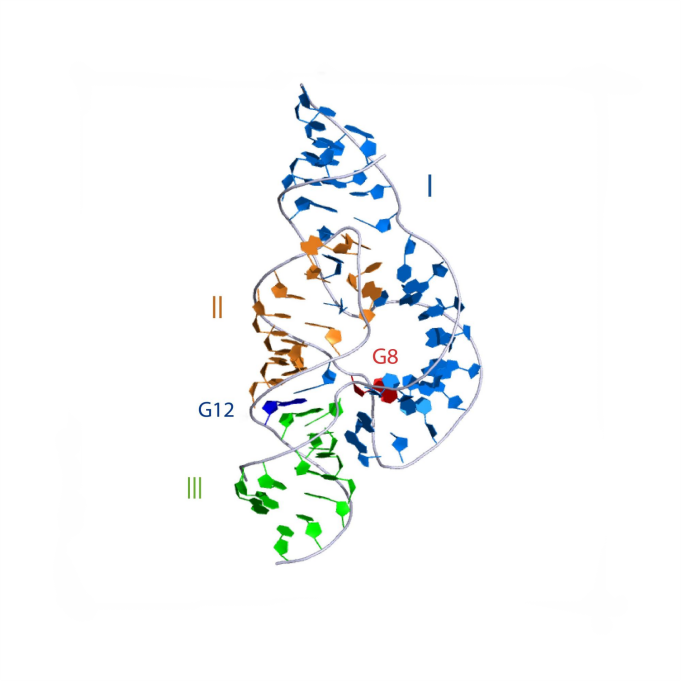
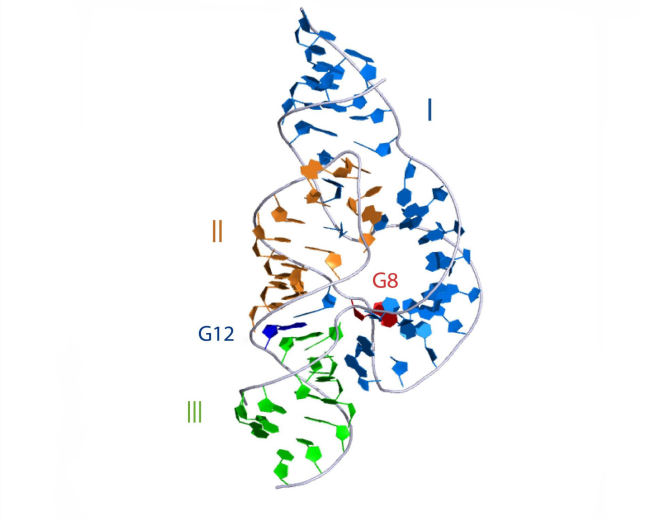
0629V4

diff --git a/docs/glms.html b/docs/glms.html
@@ -58,12 +58,12 @@
 	  <ul class="nav navbar-nav navbar-right">
 		<li id="now"><a href="https://www.ribocentre.org/">Home</a></li>
 		<li id="now"><a href="https://www.ribocentre.org/ribozyme">Ribozyme</a></li>
-		<li id="now"><a href="https://www.ribocentre.org/function">Function</a></li>
-		<li id="now"><a href="https://www.ribocentre.org/catalytic">Catalytic</a></li>
+		<li id="now"><a href="https://www.ribocentre.org/application">Application</a></li>
+		<li id="now"><a href="https://www.ribocentre.org/catalysis">Catalysis</a></li>
 		<li id="now"><a href="https://www.ribocentre.org/structure">Structure</a></li>
 		<li id="now"><a href="https://www.ribocentre.org/publications">Publications</a></li>
 		<li id="now"><a href="https://www.ribocentre.org/team">Team</a></li>
-		<li id="now"><a href="https://www.ribocentre.org/resources">Resources</a></li>
+		<li id="now"><a href="https://www.ribocentre.org/Helps">Helps</a></li>
 	  </ul>
 	</div>
   </div>
@@ -476,7 +476,7 @@
 <font size="4">The structure of the glmS ribozyme bound to glucose-6-phosphate. This representation was generated from PDB ID: 2HO7 at 2.9 Å resolution. </font>
 
 <table><tr>
-<td><img src="https://www.ribocentre.org/images/glmsPic/glms3D.png" alt="drawing" style="weight:600px;height:400px" border="0" /></td>
+<td><img src="https://www.ribocentre.org/images/glmsPic/glms3D.png" alt="drawing" style="weight:600px;height:425px" border="0" /></td>
 <td>
 <html>
   <head>
@@ -514,7 +514,7 @@
       }
       #myViewer{
         width:450px;
-        height: 450px;
+        height: 460px;
         position:relative;  
       }
       

diff --git a/docs/twister.html b/docs/twister.html
@@ -58,12 +58,12 @@
 	  <ul class="nav navbar-nav navbar-right">
 		<li id="now"><a href="https://www.ribocentre.org/">Home</a></li>
 		<li id="now"><a href="https://www.ribocentre.org/ribozyme">Ribozyme</a></li>
-		<li id="now"><a href="https://www.ribocentre.org/function">Function</a></li>
-		<li id="now"><a href="https://www.ribocentre.org/catalytic">Catalytic</a></li>
+		<li id="now"><a href="https://www.ribocentre.org/application">Application</a></li>
+		<li id="now"><a href="https://www.ribocentre.org/catalysis">Catalysis</a></li>
 		<li id="now"><a href="https://www.ribocentre.org/structure">Structure</a></li>
 		<li id="now"><a href="https://www.ribocentre.org/publications">Publications</a></li>
 		<li id="now"><a href="https://www.ribocentre.org/team">Team</a></li>
-		<li id="now"><a href="https://www.ribocentre.org/resources">Resources</a></li>
+		<li id="now"><a href="https://www.ribocentre.org/Helps">Helps</a></li>
 	  </ul>
 	</div>
   </div>
@@ -409,7 +409,7 @@
   <p>3D visualisation</p>
 </blockquote>
 <table><tr>
-<td><img src="https://www.ribocentre.org/images/twisterPic/twister3D.png" alt="drawing" style="height:430px" border="0" /></td>
+<td><img src="https://www.ribocentre.org/images/twisterPic/twister3D.png" alt="drawing" style="height:435px" border="0" /></td>
 <td>
 <html>
   <head>

diff --git a/docs/COTC.html b/docs/COTC.html
@@ -58,12 +58,12 @@
 	  <ul class="nav navbar-nav navbar-right">
 		<li id="now"><a href="https://www.ribocentre.org/">Home</a></li>
 		<li id="now"><a href="https://www.ribocentre.org/ribozyme">Ribozyme</a></li>
-		<li id="now"><a href="https://www.ribocentre.org/function">Function</a></li>
-		<li id="now"><a href="https://www.ribocentre.org/catalytic">Catalytic</a></li>
+		<li id="now"><a href="https://www.ribocentre.org/application">Application</a></li>
+		<li id="now"><a href="https://www.ribocentre.org/catalysis">Catalysis</a></li>
 		<li id="now"><a href="https://www.ribocentre.org/structure">Structure</a></li>
 		<li id="now"><a href="https://www.ribocentre.org/publications">Publications</a></li>
 		<li id="now"><a href="https://www.ribocentre.org/team">Team</a></li>
-		<li id="now"><a href="https://www.ribocentre.org/resources">Resources</a></li>
+		<li id="now"><a href="https://www.ribocentre.org/Helps">Helps</a></li>
 	  </ul>
 	</div>
   </div>

diff --git a/docs/HDV-like.html b/docs/HDV-like.html
@@ -58,12 +58,12 @@
 	  <ul class="nav navbar-nav navbar-right">
 		<li id="now"><a href="https://www.ribocentre.org/">Home</a></li>
 		<li id="now"><a href="https://www.ribocentre.org/ribozyme">Ribozyme</a></li>
-		<li id="now"><a href="https://www.ribocentre.org/function">Function</a></li>
-		<li id="now"><a href="https://www.ribocentre.org/catalytic">Catalytic</a></li>
+		<li id="now"><a href="https://www.ribocentre.org/application">Application</a></li>
+		<li id="now"><a href="https://www.ribocentre.org/catalysis">Catalysis</a></li>
 		<li id="now"><a href="https://www.ribocentre.org/structure">Structure</a></li>
 		<li id="now"><a href="https://www.ribocentre.org/publications">Publications</a></li>
 		<li id="now"><a href="https://www.ribocentre.org/team">Team</a></li>
-		<li id="now"><a href="https://www.ribocentre.org/resources">Resources</a></li>
+		<li id="now"><a href="https://www.ribocentre.org/Helps">Helps</a></li>
 	  </ul>
 	</div>
   </div>

diff --git a/docs/Hairpin.html b/docs/Hairpin.html
@@ -58,12 +58,12 @@
 	  <ul class="nav navbar-nav navbar-right">
 		<li id="now"><a href="https://www.ribocentre.org/">Home</a></li>
 		<li id="now"><a href="https://www.ribocentre.org/ribozyme">Ribozyme</a></li>
-		<li id="now"><a href="https://www.ribocentre.org/function">Function</a></li>
-		<li id="now"><a href="https://www.ribocentre.org/catalytic">Catalytic</a></li>
+		<li id="now"><a href="https://www.ribocentre.org/application">Application</a></li>
+		<li id="now"><a href="https://www.ribocentre.org/catalysis">Catalysis</a></li>
 		<li id="now"><a href="https://www.ribocentre.org/structure">Structure</a></li>
 		<li id="now"><a href="https://www.ribocentre.org/publications">Publications</a></li>
 		<li id="now"><a href="https://www.ribocentre.org/team">Team</a></li>
-		<li id="now"><a href="https://www.ribocentre.org/resources">Resources</a></li>
+		<li id="now"><a href="https://www.ribocentre.org/Helps">Helps</a></li>
 	  </ul>
 	</div>
   </div>

diff --git a/docs/Hatchet.html b/docs/Hatchet.html
@@ -58,12 +58,12 @@
 	  <ul class="nav navbar-nav navbar-right">
 		<li id="now"><a href="https://www.ribocentre.org/">Home</a></li>
 		<li id="now"><a href="https://www.ribocentre.org/ribozyme">Ribozyme</a></li>
-		<li id="now"><a href="https://www.ribocentre.org/function">Function</a></li>
-		<li id="now"><a href="https://www.ribocentre.org/catalytic">Catalytic</a></li>
+		<li id="now"><a href="https://www.ribocentre.org/application">Application</a></li>
+		<li id="now"><a href="https://www.ribocentre.org/catalysis">Catalysis</a></li>
 		<li id="now"><a href="https://www.ribocentre.org/structure">Structure</a></li>
 		<li id="now"><a href="https://www.ribocentre.org/publications">Publications</a></li>
 		<li id="now"><a href="https://www.ribocentre.org/team">Team</a></li>
-		<li id="now"><a href="https://www.ribocentre.org/resources">Resources</a></li>
+		<li id="now"><a href="https://www.ribocentre.org/Helps">Helps</a></li>
 	  </ul>
 	</div>
   </div>

diff --git a/docs/Hovlinc.html b/docs/Hovlinc.html
@@ -58,12 +58,12 @@
 	  <ul class="nav navbar-nav navbar-right">
 		<li id="now"><a href="https://www.ribocentre.org/">Home</a></li>
 		<li id="now"><a href="https://www.ribocentre.org/ribozyme">Ribozyme</a></li>
-		<li id="now"><a href="https://www.ribocentre.org/function">Function</a></li>
-		<li id="now"><a href="https://www.ribocentre.org/catalytic">Catalytic</a></li>
+		<li id="now"><a href="https://www.ribocentre.org/application">Application</a></li>
+		<li id="now"><a href="https://www.ribocentre.org/catalysis">Catalysis</a></li>
 		<li id="now"><a href="https://www.ribocentre.org/structure">Structure</a></li>
 		<li id="now"><a href="https://www.ribocentre.org/publications">Publications</a></li>
 		<li id="now"><a href="https://www.ribocentre.org/team">Team</a></li>
-		<li id="now"><a href="https://www.ribocentre.org/resources">Resources</a></li>
+		<li id="now"><a href="https://www.ribocentre.org/Helps">Helps</a></li>
 	  </ul>
 	</div>
   </div>

diff --git a/docs/LC-ribozyme.html b/docs/LC-ribozyme.html
@@ -58,12 +58,12 @@
 	  <ul class="nav navbar-nav navbar-right">
 		<li id="now"><a href="https://www.ribocentre.org/">Home</a></li>
 		<li id="now"><a href="https://www.ribocentre.org/ribozyme">Ribozyme</a></li>
-		<li id="now"><a href="https://www.ribocentre.org/function">Function</a></li>
-		<li id="now"><a href="https://www.ribocentre.org/catalytic">Catalytic</a></li>
+		<li id="now"><a href="https://www.ribocentre.org/application">Application</a></li>
+		<li id="now"><a href="https://www.ribocentre.org/catalysis">Catalysis</a></li>
 		<li id="now"><a href="https://www.ribocentre.org/structure">Structure</a></li>
 		<li id="now"><a href="https://www.ribocentre.org/publications">Publications</a></li>
 		<li id="now"><a href="https://www.ribocentre.org/team">Team</a></li>
-		<li id="now"><a href="https://www.ribocentre.org/resources">Resources</a></li>
+		<li id="now"><a href="https://www.ribocentre.org/Helps">Helps</a></li>
 	  </ul>
 	</div>
   </div>

diff --git a/docs/Line1.html b/docs/Line1.html
@@ -58,12 +58,12 @@
 	  <ul class="nav navbar-nav navbar-right">
 		<li id="now"><a href="https://www.ribocentre.org/">Home</a></li>
 		<li id="now"><a href="https://www.ribocentre.org/ribozyme">Ribozyme</a></li>
-		<li id="now"><a href="https://www.ribocentre.org/function">Function</a></li>
-		<li id="now"><a href="https://www.ribocentre.org/catalytic">Catalytic</a></li>
+		<li id="now"><a href="https://www.ribocentre.org/application">Application</a></li>
+		<li id="now"><a href="https://www.ribocentre.org/catalysis">Catalysis</a></li>
 		<li id="now"><a href="https://www.ribocentre.org/structure">Structure</a></li>
 		<li id="now"><a href="https://www.ribocentre.org/publications">Publications</a></li>
 		<li id="now"><a href="https://www.ribocentre.org/team">Team</a></li>
-		<li id="now"><a href="https://www.ribocentre.org/resources">Resources</a></li>
+		<li id="now"><a href="https://www.ribocentre.org/Helps">Helps</a></li>
 	  </ul>
 	</div>
   </div>

diff --git a/docs/Pistol.html b/docs/Pistol.html
@@ -58,12 +58,12 @@
 	  <ul class="nav navbar-nav navbar-right">
 		<li id="now"><a href="https://www.ribocentre.org/">Home</a></li>
 		<li id="now"><a href="https://www.ribocentre.org/ribozyme">Ribozyme</a></li>
-		<li id="now"><a href="https://www.ribocentre.org/function">Function</a></li>
-		<li id="now"><a href="https://www.ribocentre.org/catalytic">Catalytic</a></li>
+		<li id="now"><a href="https://www.ribocentre.org/application">Application</a></li>
+		<li id="now"><a href="https://www.ribocentre.org/catalysis">Catalysis</a></li>
 		<li id="now"><a href="https://www.ribocentre.org/structure">Structure</a></li>
 		<li id="now"><a href="https://www.ribocentre.org/publications">Publications</a></li>
 		<li id="now"><a href="https://www.ribocentre.org/team">Team</a></li>
-		<li id="now"><a href="https://www.ribocentre.org/resources">Resources</a></li>
+		<li id="now"><a href="https://www.ribocentre.org/Helps">Helps</a></li>
 	  </ul>
 	</div>
   </div>

diff --git a/docs/RNaseP.html b/docs/RNaseP.html
@@ -58,12 +58,12 @@
 	  <ul class="nav navbar-nav navbar-right">
 		<li id="now"><a href="https://www.ribocentre.org/">Home</a></li>
 		<li id="now"><a href="https://www.ribocentre.org/ribozyme">Ribozyme</a></li>
-		<li id="now"><a href="https://www.ribocentre.org/function">Function</a></li>
-		<li id="now"><a href="https://www.ribocentre.org/catalytic">Catalytic</a></li>
+		<li id="now"><a href="https://www.ribocentre.org/application">Application</a></li>
+		<li id="now"><a href="https://www.ribocentre.org/catalysis">Catalysis</a></li>
 		<li id="now"><a href="https://www.ribocentre.org/structure">Structure</a></li>
 		<li id="now"><a href="https://www.ribocentre.org/publications">Publications</a></li>
 		<li id="now"><a href="https://www.ribocentre.org/team">Team</a></li>
-		<li id="now"><a href="https://www.ribocentre.org/resources">Resources</a></li>
+		<li id="now"><a href="https://www.ribocentre.org/Helps">Helps</a></li>
 	  </ul>
 	</div>
   </div>

diff --git a/docs/VS-ribozyme.html b/docs/VS-ribozyme.html
@@ -58,12 +58,12 @@
 	  <ul class="nav navbar-nav navbar-right">
 		<li id="now"><a href="https://www.ribocentre.org/">Home</a></li>
 		<li id="now"><a href="https://www.ribocentre.org/ribozyme">Ribozyme</a></li>
-		<li id="now"><a href="https://www.ribocentre.org/function">Function</a></li>
-		<li id="now"><a href="https://www.ribocentre.org/catalytic">Catalytic</a></li>
+		<li id="now"><a href="https://www.ribocentre.org/application">Application</a></li>
+		<li id="now"><a href="https://www.ribocentre.org/catalysis">Catalysis</a></li>
 		<li id="now"><a href="https://www.ribocentre.org/structure">Structure</a></li>
 		<li id="now"><a href="https://www.ribocentre.org/publications">Publications</a></li>
 		<li id="now"><a href="https://www.ribocentre.org/team">Team</a></li>
-		<li id="now"><a href="https://www.ribocentre.org/resources">Resources</a></li>
+		<li id="now"><a href="https://www.ribocentre.org/Helps">Helps</a></li>
 	  </ul>
 	</div>
   </div>
